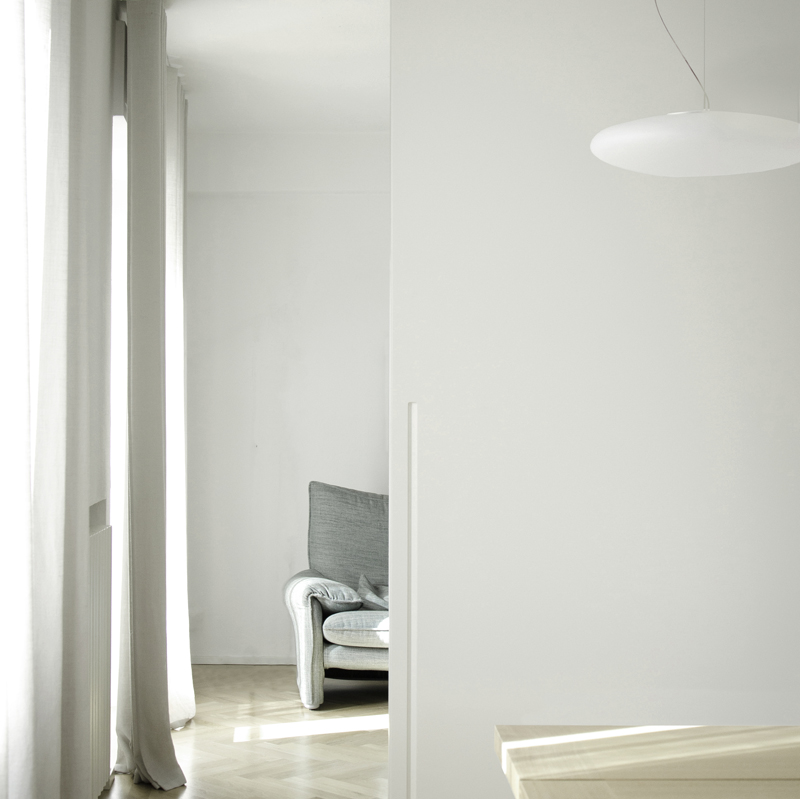
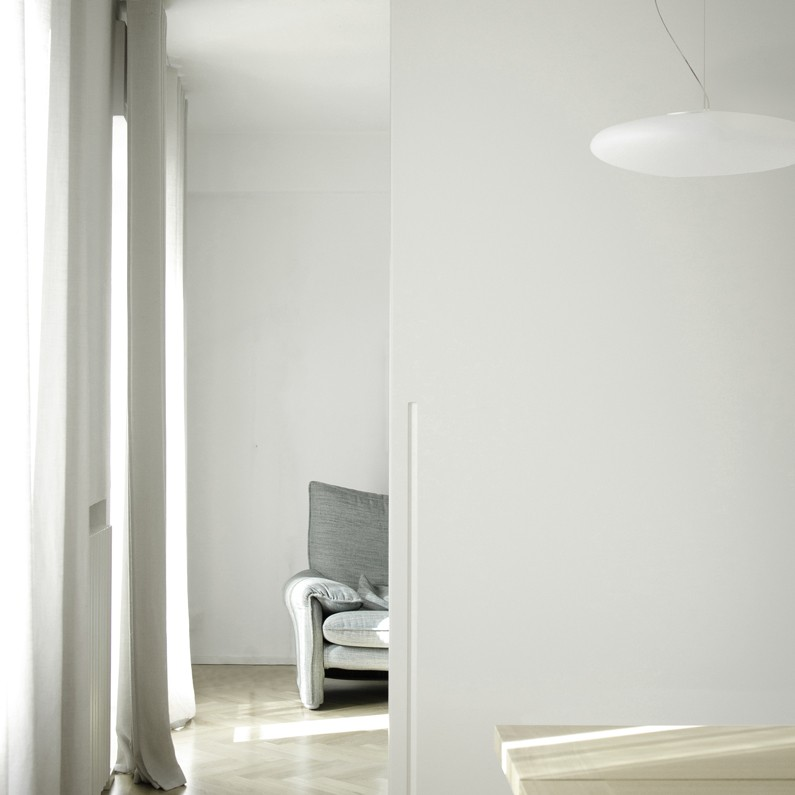
modifiche

diff --git a/index.html b/index.html
@@ -8,16 +8,16 @@
     <link rel="stylesheet" href="https://cdnjs.cloudflare.com/ajax/libs/font-awesome/6.1.0/css/all.min.css" />
     <script src="https://cdn.jsdelivr.net/npm/@tailwindcss/browser@4"></script>
 </head>
-<body class="p-12 px-70 font-[Adobe Caslon Pro]">
+<body class="py-8 md:py-12 px-8 md:px-70 font-[Adobe Caslon Pro]">
     <div class="infos flex flex-col gap-2 text-[#1D2BF4]">
         <p class="name text-2xl font-[500]">Giulia Fornai, architetto</p>
         <p class="address text-lg">Siena | Poggibonsi,</p>
         <p class="italy text-lg italic">Italia</p>
     </div>
-    <div class="pt-20 carousel flex justify-between flex-wrap">
-        <img class="py-4 w-auto h-60" src="./imgs/progetto1.jpg" alt="">
-        <img class="py-4 w-auto h-60" src="./imgs/progetto2.jpg" alt="">
-        <img class="py-4 w-auto h-60" src="./imgs/progetto3.jpg" alt="">
+    <div class="pt-20 carousel flex md:flex-row flex-col justify-between flex-wrap">
+        <img class="py-4 min-w-60 h-60" src="./imgs/progetto1.jpg" alt="">
+        <img class="py-4 min-w-60 h-60" src="./imgs/progetto2.jpg" alt="">
+        <img class="py-4 min-w-60 h-60" src="./imgs/progetto3.jpg" alt="">
     </div>
     <div class=" w-full flex justify-start gap-4 bottom-0 pb-16 pt-4 fixed bg-white">
         <a href="tel:+393474446492" class="text-neutral-400">+39 347 4446492</a>
